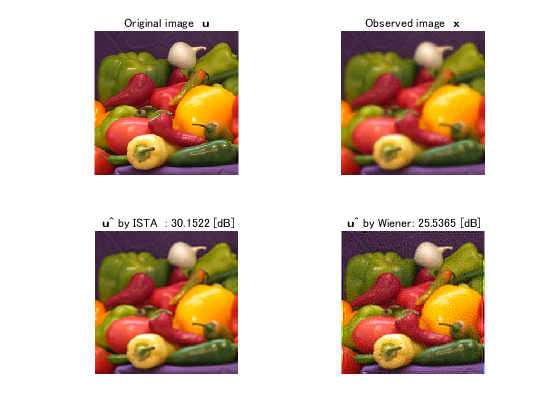
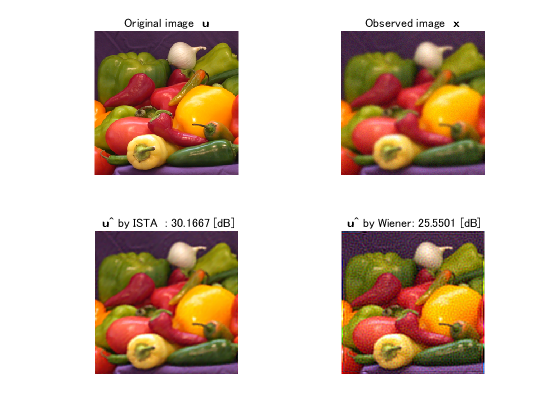
Revised for R2016a

Changed region(s): [[0.6071, 0.5262, 0.8804, 0.8976], [0.3339, 0.5262, 0.3643, 0.5571]]

diff --git a/html/quickstart.html b/html/quickstart.html
@@ -6,7 +6,7 @@
    <!--
 This HTML was auto-generated from MATLAB code.
 To make changes, update the MATLAB code and republish this document.
-      --><title>Quickstart of SaivDr Package</title><meta name="generator" content="MATLAB 8.6"><link rel="schema.DC" href="http://purl.org/dc/elements/1.1/"><meta name="DC.date" content="2015-11-26"><meta name="DC.source" content="quickstart.m"><style type="text/css">
+      --><title>Quickstart of SaivDr Package</title><meta name="generator" content="MATLAB 9.0"><link rel="schema.DC" href="http://purl.org/dc/elements/1.1/"><meta name="DC.date" content="2016-03-14"><meta name="DC.source" content="quickstart.m"><style type="text/css">
 html,body,div,span,applet,object,iframe,h1,h2,h3,h4,h5,h6,p,blockquote,pre,a,abbr,acronym,address,big,cite,code,del,dfn,em,font,img,ins,kbd,q,s,samp,small,strike,strong,sub,sup,tt,var,b,u,i,center,dl,dt,dd,ol,ul,li,fieldset,form,label,legend,table,caption,tbody,tfoot,thead,tr,th,td{margin:0;padding:0;border:0;outline:0;font-size:100%;vertical-align:baseline;background:transparent}body{line-height:1}ol,ul{list-style:none}blockquote,q{quotes:none}blockquote:before,blockquote:after,q:before,q:after{content:'';content:none}:focus{outine:0}ins{text-decoration:none}del{text-decoration:line-through}table{border-collapse:collapse;border-spacing:0}
 
 html { min-height:100%; margin-bottom:1px; }
@@ -341,56 +341,56 @@ resImg = step(ista,obsImg); <span class="comment">% STEP method of IstaImRestora
  ISTA
 (   1)  PSNR =  27.20 [dB] 
 (   2)  PSNR =  27.94 [dB] 
-(   3)  PSNR =  28.38 [dB] 
-(   4)  PSNR =  28.68 [dB] 
+(   3)  PSNR =  28.39 [dB] 
+(   4)  PSNR =  28.69 [dB] 
 (   5)  PSNR =  28.91 [dB] 
 (   6)  PSNR =  29.08 [dB] 
-(   7)  PSNR =  29.21 [dB] 
-(   8)  PSNR =  29.33 [dB] 
-(   9)  PSNR =  29.42 [dB] 
-(  10)  PSNR =  29.50 [dB] 
-(  11)  PSNR =  29.57 [dB] 
-(  12)  PSNR =  29.63 [dB] 
-(  13)  PSNR =  29.68 [dB] 
+(   7)  PSNR =  29.22 [dB] 
+(   8)  PSNR =  29.34 [dB] 
+(   9)  PSNR =  29.43 [dB] 
+(  10)  PSNR =  29.51 [dB] 
+(  11)  PSNR =  29.58 [dB] 
+(  12)  PSNR =  29.64 [dB] 
+(  13)  PSNR =  29.69 [dB] 
 (  14)  PSNR =  29.73 [dB] 
-(  15)  PSNR =  29.76 [dB] 
-(  16)  PSNR =  29.80 [dB] 
-(  17)  PSNR =  29.83 [dB] 
-(  18)  PSNR =  29.86 [dB] 
-(  19)  PSNR =  29.89 [dB] 
-(  20)  PSNR =  29.91 [dB] 
-(  21)  PSNR =  29.93 [dB] 
-(  22)  PSNR =  29.95 [dB] 
-(  23)  PSNR =  29.97 [dB] 
-(  24)  PSNR =  29.99 [dB] 
-(  25)  PSNR =  30.00 [dB] 
-(  26)  PSNR =  30.01 [dB] 
-(  27)  PSNR =  30.03 [dB] 
-(  28)  PSNR =  30.04 [dB] 
-(  29)  PSNR =  30.05 [dB] 
-(  30)  PSNR =  30.06 [dB] 
-(  31)  PSNR =  30.07 [dB] 
-(  32)  PSNR =  30.08 [dB] 
-(  33)  PSNR =  30.08 [dB] 
-(  34)  PSNR =  30.09 [dB] 
-(  35)  PSNR =  30.10 [dB] 
-(  36)  PSNR =  30.10 [dB] 
-(  37)  PSNR =  30.11 [dB] 
-(  38)  PSNR =  30.12 [dB] 
-(  39)  PSNR =  30.12 [dB] 
-(  40)  PSNR =  30.12 [dB] 
-(  41)  PSNR =  30.13 [dB] 
-(  42)  PSNR =  30.13 [dB] 
-(  43)  PSNR =  30.13 [dB] 
-(  44)  PSNR =  30.14 [dB] 
-(  45)  PSNR =  30.14 [dB] 
-(  46)  PSNR =  30.14 [dB] 
-(  47)  PSNR =  30.14 [dB] 
-(  48)  PSNR =  30.15 [dB] 
-(  49)  PSNR =  30.15 [dB] 
-(  50)  PSNR =  30.15 [dB] 
-(  51)  PSNR =  30.15 [dB] 
-(  52)  PSNR =  30.15 [dB] 
+(  15)  PSNR =  29.77 [dB] 
+(  16)  PSNR =  29.81 [dB] 
+(  17)  PSNR =  29.84 [dB] 
+(  18)  PSNR =  29.87 [dB] 
+(  19)  PSNR =  29.90 [dB] 
+(  20)  PSNR =  29.92 [dB] 
+(  21)  PSNR =  29.95 [dB] 
+(  22)  PSNR =  29.97 [dB] 
+(  23)  PSNR =  29.99 [dB] 
+(  24)  PSNR =  30.00 [dB] 
+(  25)  PSNR =  30.02 [dB] 
+(  26)  PSNR =  30.03 [dB] 
+(  27)  PSNR =  30.04 [dB] 
+(  28)  PSNR =  30.05 [dB] 
+(  29)  PSNR =  30.07 [dB] 
+(  30)  PSNR =  30.08 [dB] 
+(  31)  PSNR =  30.08 [dB] 
+(  32)  PSNR =  30.09 [dB] 
+(  33)  PSNR =  30.10 [dB] 
+(  34)  PSNR =  30.11 [dB] 
+(  35)  PSNR =  30.11 [dB] 
+(  36)  PSNR =  30.12 [dB] 
+(  37)  PSNR =  30.13 [dB] 
+(  38)  PSNR =  30.13 [dB] 
+(  39)  PSNR =  30.13 [dB] 
+(  40)  PSNR =  30.14 [dB] 
+(  41)  PSNR =  30.14 [dB] 
+(  42)  PSNR =  30.15 [dB] 
+(  43)  PSNR =  30.15 [dB] 
+(  44)  PSNR =  30.15 [dB] 
+(  45)  PSNR =  30.15 [dB] 
+(  46)  PSNR =  30.16 [dB] 
+(  47)  PSNR =  30.16 [dB] 
+(  48)  PSNR =  30.16 [dB] 
+(  49)  PSNR =  30.16 [dB] 
+(  50)  PSNR =  30.16 [dB] 
+(  51)  PSNR =  30.17 [dB] 
+(  52)  PSNR =  30.17 [dB] 
 </pre><img vspace="5" hspace="5" src="quickstart_02.png" alt=""> <h2>Extract the final evaluation<a name="13"></a></h2><p>The object of StepMonitoringSystem, <i>stepmonitor</i> , stores the evaluation values calculated iteratively in ISTA as a vector. The GET method of <i>stepmonitor</i>  can be used to extract the number of iterations and the sequence of PSNRs.</p><pre class="codeinput">nItr  = get(stepmonitor,<span class="string">'nItr'</span>);
 psnrs = get(stepmonitor,<span class="string">'PSNRs'</span>);
 psnr_ista = psnrs(nItr);
@@ -418,7 +418,7 @@ fprintf(<span class="string">'\n Wiener'</span>)
 psnr_wfdc = step(stepmonitor,wnfImg); <span class="comment">% STEP method of StepMonitoringSystem</span>
 </pre><pre class="codeoutput">
  Wiener
-(   1)  PSNR =  25.54 [dB] 
+(   1)  PSNR =  25.55 [dB] 
 </pre><h2>Compare deblurring performances<a name="15"></a></h2><p>In order to compare the deblurring performances between two methods, ISTA-based deblurring with NSOLT and Wiener filter, let us show the original, observed and two results in one figure together.</p><pre class="codeinput">hfig3 = figure(3);
 
 <span class="comment">% Original image x</span>
@@ -443,6 +443,14 @@ title([<span class="string">'{\bf u}\^ by Wiener: '</span> num2str(psnr_wfdc) <s
 </pre><img vspace="5" hspace="5" src="quickstart_03.png" alt=""> <h2>Release notes<a name="16"></a></h2><p>RELEASENOTES.txt contains release notes on <b>SaivDr Package</b>.</p><pre class="codeinput">type(<span class="string">'RELEASENOTES.txt'</span>)
 </pre><pre class="codeoutput">
 * Release notes on Sparsity-Aware Image and Volume Data Restoration Package
+
+- SaivDr20160314
+-- (Minor) Clarified the array dimension for code generation in R2016a
+--- saivdr.dictionary.nsoltx.AbstNsoltCoefManipulator2d
+--- saivdr.dictionary.nsoltx.AbstNsoltCoefManipulator3d
+--- saivdr.dictionary.olpprfb.AbstOLpPrFbCoefManipulator3d
+-- (Minor) Fixed test method calling
+--- saivdr.testcase.dictionary.nsgenlotx.design.NsGenLotDesignerFrqTestCase
 
 - SaivDr20151126
 -- (Major) Migrated to GitHub
@@ -522,8 +530,8 @@ title([<span class="string">'{\bf u}\^ by Wiener: '</span> num2str(psnr_wfdc) <s
   be finished.
 
 % SVN identifier:
-% $Id: RELEASENOTES.txt 751 2015-09-02 08:31:28Z sho $
-</pre><p class="footer"><br><a href="http://www.mathworks.com/products/matlab/">Published with MATLAB&reg; R2015b</a><br></p></div><!--
+% $Id: RELEASENOTES.txt 871 2015-11-26 09:04:01Z sho $
+</pre><p class="footer"><br><a href="http://www.mathworks.com/products/matlab/">Published with MATLAB&reg; R2016a</a><br></p></div><!--
 ##### SOURCE BEGIN #####
 %% Quickstart of *SaivDr Package*
 % A brief introduction to image restroation with *SaivDr Package*
